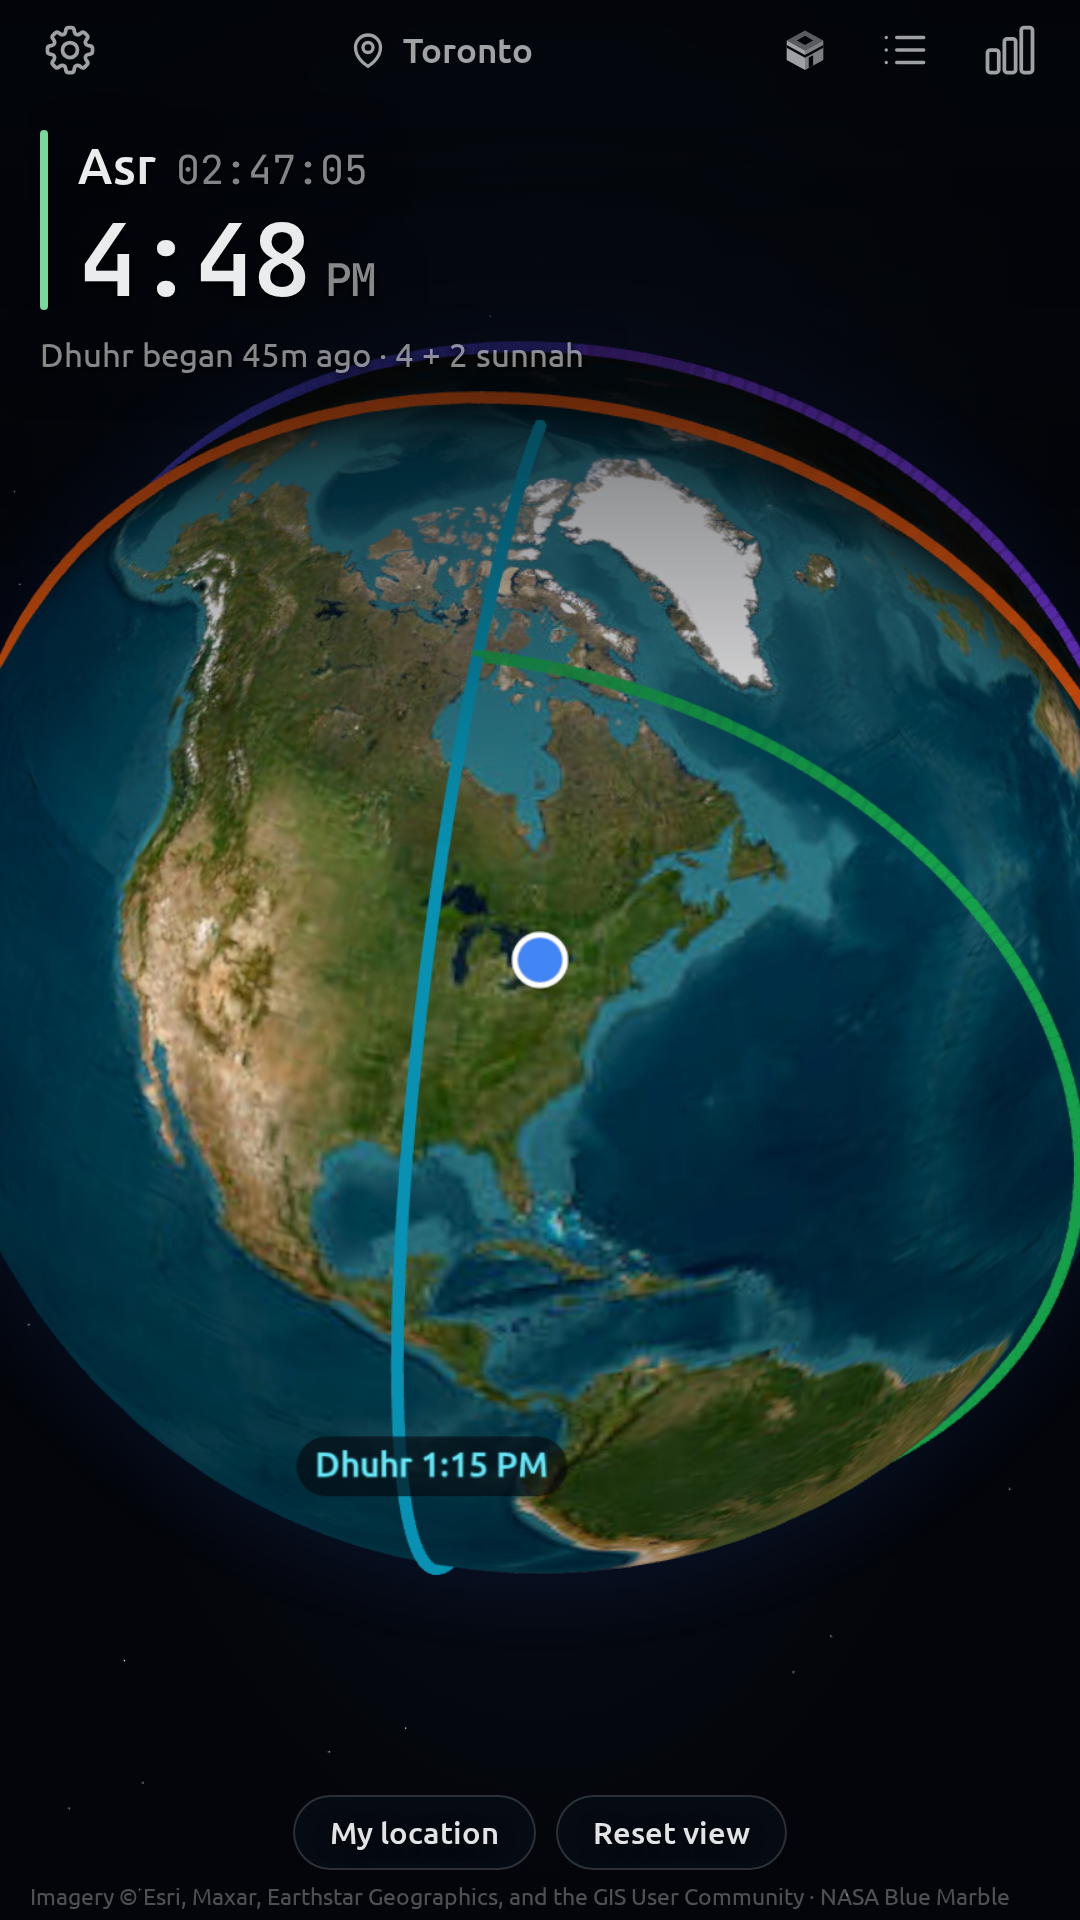
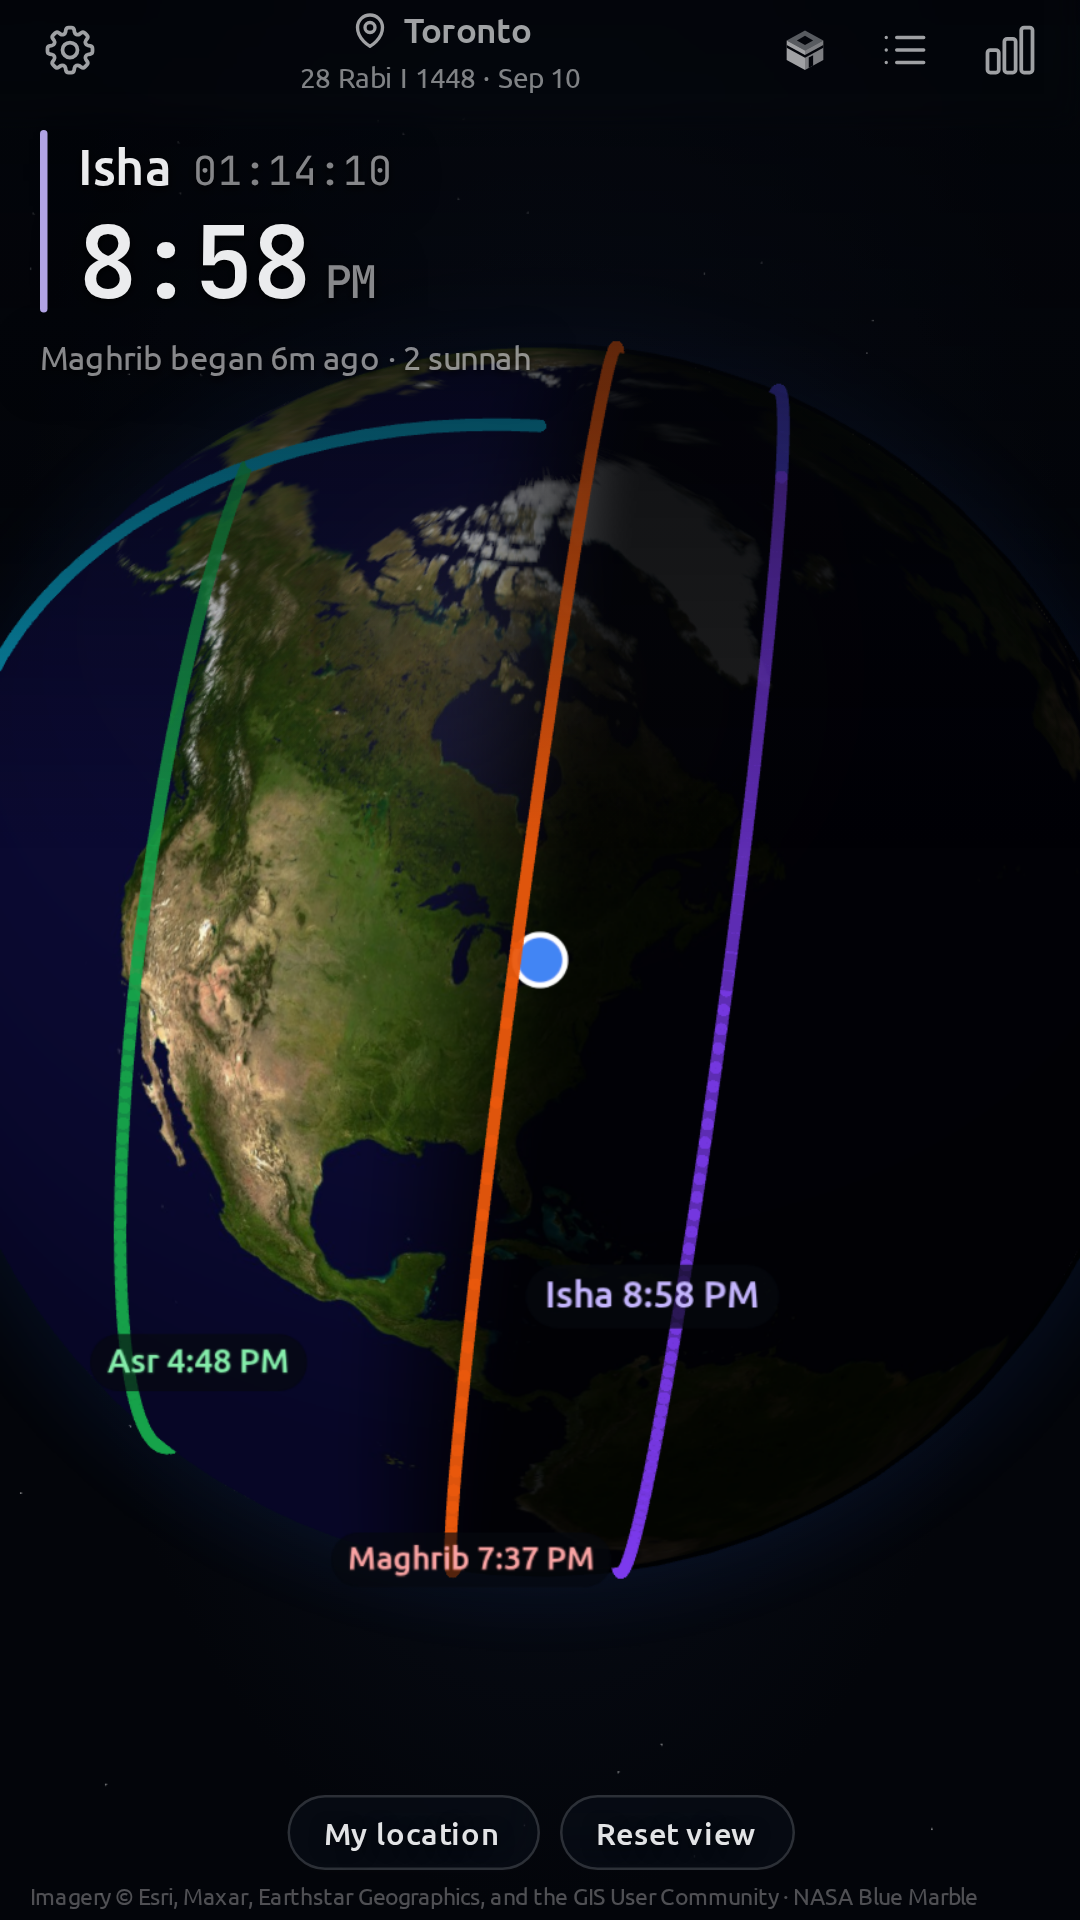
chore: reshoot the store screenshots around the features people install for
The first set had six, and two of them were the same screen twice - the
prayer list in light and in dark - while travel mode, the notification
settings and the per-prayer reminders were missing entirely. Those are
among the strongest things this app does and none of them was visible to
anyone deciding whether to install it.

Eight now, which is Play's maximum: the globe, the prayer list, Qibla,
the tracking dashboard, travel mode in use, notification settings,
per-prayer reminders, and the settings menu. Nothing in the set is a
sub-menu that only makes sense once you already own the app.

Travel mode is the one worth calling out. It is shot with home in
Toronto and the user in Istanbul, so the banner carries a real distance,
the list shows Dhuhr and Asr genuinely combined, and the rak'ah badges
say two. That is the feature working, not a settings page describing it.

Two details the app taught me while shooting it. The reminder dropdown
only offers 0, 5, 10, 15 and 30 minutes, and seeding anything else
renders as "Off" - the first attempt had Fajr silently showing no
reminder on the screenshot whose whole job is to show reminders. And the
optional night prayers are on, because travel mode combines two rows and
the list was otherwise leaving half the frame empty.

The script's header now also records that seeding through localStorage
works here and does nothing on a device, where Capacitor keeps its
preferences natively. That mistake cost a day of confidently wrong
[…]

diff --git a/docs/store/2026-09-10/README.md b/docs/store/2026-09-10/README.md
@@ -1,35 +1,50 @@
 # Play Store screenshots — 2026-09-10
 
-Six phone screenshots at **1080×1920** (9:16), the size Play is happiest with:
-each side inside its 320–3840 range, and a ratio no wider than the 2:1 it caps
-at. Regenerate with `scripts/store-screenshots.mjs` — read that file's header
-first, it explains the seeding and the one path that needs changing to run it
-elsewhere.
+Eight phone screenshots at **1080×1920** (9:16) — Play's maximum count, and the
+size it is happiest with: each side inside its 320–3840 range, and a ratio no
+wider than the 2:1 it caps at.
 
-| File | Screen | Why it is in the set |
+Regenerate with `scripts/store-screenshots.mjs`. Read that file's header first:
+it explains the seeding, the sizing trap, and the one path that needs changing
+to run it elsewhere.
+
+## The set, and why each one is in it
+
+Chosen to be the things somebody would install the app *for*. Nothing here is a
+sub-menu that only makes sense once you already own it.
+
+| File | Screen | What it has to prove |
 |---|---|---|
-| `01-globe-home` | Home, globe view | The thing nothing else in this category has. Leads the listing. |
-| `02-prayer-times` | Home, list view, light | The daily screen, and proof there is a light theme. |
-| `03-prayer-tracking` | Home, list view, dark | The same screen with the checkmarks visible, and the dark theme. |
-| `04-qibla` | Qibla direction | Named in the short description; needs to be seen. |
-| `05-dashboard` | Tracking dashboard | The reason to come back, rather than the reason to install. |
-| `06-islamic-design` | Islamic design, dark | The second visual identity, which the listing does not currently mention. |
+| `01-globe-home` | Globe home | The thing nothing else in this category has. A line drawn across the world for each prayer. Leads the listing. |
+| `02-prayer-times` | Prayer list, light | The daily screen, with tracking marks and Sunnah counts. Also proves there is a light theme. |
+| `03-qibla` | Qibla direction | Named in the short description, so it has to be seen. Shows the great-circle arc, not just a needle. |
+| `04-prayer-tracking` | Dashboard | The reason to come back, rather than the reason to install. |
+| `05-travel-mode` | Travel mode in use | Qasr and Jama' shown working, with a real distance from home. The feature most competitors do not have. |
+| `06-notifications` | Notification settings | Where people go first, and where the athan lives. |
+| `07-prayer-reminders` | Per-prayer reminders | Proof it is per-prayer, not one global switch: separate reminder times and a separate athan per prayer. |
+| `08-settings` | Settings, light | Shows the whole feature surface in one frame — location, method, appearance, notifications, travel. |
 
 ## What these were rendered from
 
-A production build of `main` with the three open branches merged in — the
-performance work, the Isha line fix, and the row-contrast fix on this branch.
-**Reshoot after those land** if any of them changes on the way in.
+`main` at the time of writing, in a desktop browser at phone dimensions — not on
+a handset. Nothing in these screens depends on native behaviour, but it does
+mean the status bar is the browser's rather than Android's.
 
-They are rendered in a desktop browser, not on a phone. Nothing in these shots
-depends on native behaviour, but it does mean the status bar is the browser's
-idea of one rather than Android's.
+The globe is rendered by a software rasteriser here. It looks the same as the
+device does; only the timing differs, and timing is not in a screenshot.
+
+## Seeded state
+
+A store screenshot has to show the app in use, not on its first launch. So each
+one starts from twelve days of prayer tracking, a real city, and onboarding
+done. The tracking history carries **two missed prayers on purpose** — a
+flawless week reads as a mock-up rather than as the app.
+
+The travel shot puts home in Toronto and the user in Istanbul, so the banner
+shows a real distance and the list shows Dhuhr and Asr genuinely combined.
 
 ## Still to do before a listing update
 
 - **Feature graphic**, 1024×500. Not something to screenshot; it has to be
   designed.
 - **Tablet screenshots**, if the listing claims tablet support.
-- The store copy in `store-listing.md` still says the only network request is
-  the one that names your city. Esri's map tiles and the athan downloads are
-  both missing from it, and the privacy policy has the same gap.

diff --git a/store-listing.md b/store-listing.md
@@ -57,7 +57,7 @@ prayer times, salah, islamic, muslim, qibla, adhan, prayer tracker, ramadan, ath
 
 ## Assets
 
-- **Phone screenshots** — `docs/store/2026-09-10/`, six at 1080×1920. Regenerate with `scripts/store-screenshots.mjs`.
+- **Phone screenshots** — `docs/store/2026-09-10/`, eight at 1080×1920: globe, prayer list, Qibla, tracking, travel mode in use, notifications, per-prayer reminders, settings. Regenerate with `scripts/store-screenshots.mjs`; the README beside them says why each is in the set.
 - **Feature graphic** — 1024×500. **Not done.** Has to be designed; it cannot be screenshotted.
 - **Tablet screenshots** — only needed if the listing claims tablet support.
 
